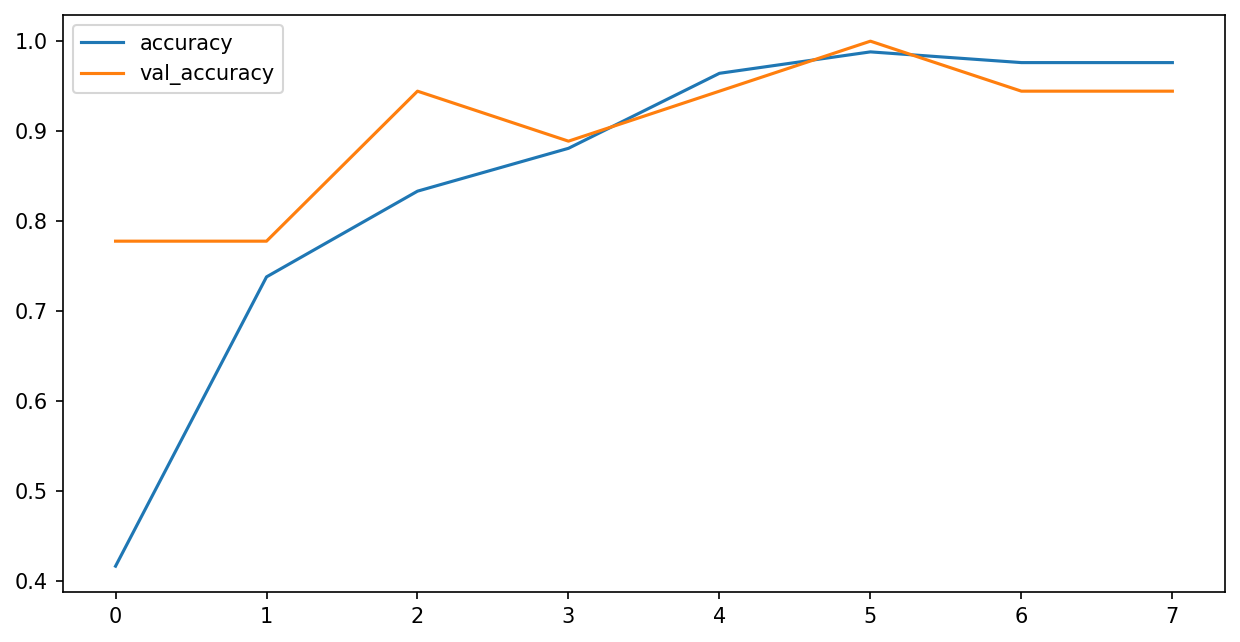
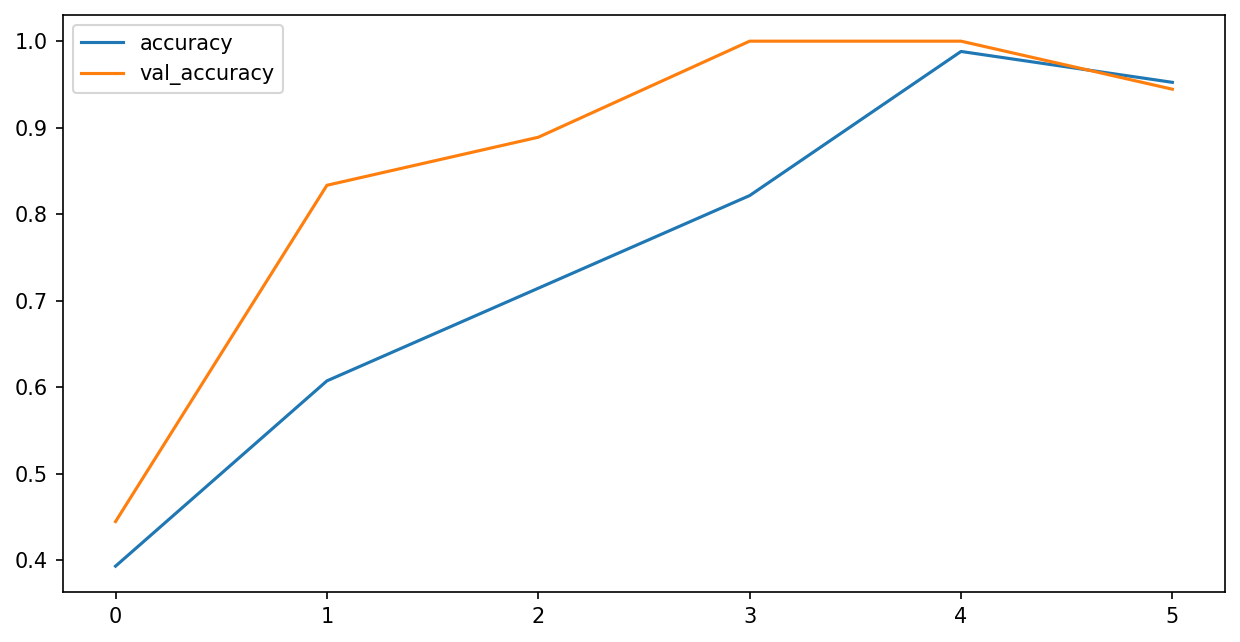
quinta_split(data_augmentation)

diff --git a/cnn_data_augmentation.py b/cnn_data_augmentation.py
@@ -31,11 +31,49 @@ def duration_care(y):
 
     duration_difference = (sample_rate * 2) - y.shape[0]
     if (duration_difference > 0):
+        print("Padding do audio com zeros para 2 seconds.")
         y = np.pad(y, (0, duration_difference), mode='constant')
     if (duration_difference < 0):
+        print("Cortando o audio para 2 seconds.")
         y = y[:sample_rate*2]
 
     return y
+
+
+def data_augmentation(name_step):
+    data_augmented = []
+    vector = []
+    for classe, valor in classes.items():
+        path = "./Dataset/" + name_step + "/" + classe + "/"
+        for audio in os.listdir(path):
+            if audio.endswith(".wav"):
+                # carregamento do áudio
+                y, sr = lb.load(os.path.join(path, audio), sr=sample_rate)
+
+                # modificação do áudio para o data augmentation
+                data_augmented.append((lb.effects.pitch_shift(
+                    y, sr=sr, n_steps=np.random.uniform(-2, 2)), valor))
+
+                y = duration_care(y)
+
+    for i, j in data_augmented:
+        melspec = lb.feature.melspectrogram(
+            y=i,
+            sr=sr,
+            n_mels=n_mels,
+            fmax=fmax,
+            n_fft=n_fft,
+            hop_length=hop_length,
+            win_length=win_length,
+        )
+
+        # conversão para escala logarítmica
+        melspec_log = lb.power_to_db(melspec, ref=np.max)
+
+        # retorno da tupla (espectrograma de Mel, valor da classe)
+        vector.append((melspec_log, j))
+
+    return vector
 
 
 def melspectrogram(name_step, vector):
@@ -72,8 +110,30 @@ def melspectrogram(name_step, vector):
 
 
 train = melspectrogram("train", train)
+print(len(train))
+
+data_aug = data_augmentation("train")
+print(len(data_aug))
+
+print(np.array_equal(
+    train[0][0],
+    data_aug[0][0]
+))
+
+print(
+    np.array_equal(
+        train[0][1],
+        data_aug[0][1]
+    ))
+
+train.extend(data_aug)
+
+print(len(train))
+
+
 test = melspectrogram("test", test)
 validation = melspectrogram("validation", validation)
+
 
 def prepare_to_dataset(melspc_vector):
     x = []
@@ -88,6 +148,7 @@ def prepare_to_dataset(melspc_vector):
 
 
 train_x, train_labels = prepare_to_dataset(train)
+print(len(train_x), len(train_labels))
 validation_x, validation_labels = prepare_to_dataset(validation)
 test_x, test_labels = prepare_to_dataset(test)
 
@@ -160,14 +221,16 @@ plt.figure(figsize=(10, 5))
 plt.plot(history.epoch, metrics["loss"])
 plt.plot(history.epoch, metrics["val_loss"])
 plt.legend(["loss", "val_loss"])
-plt.savefig("training_loss.png", dpi=150, bbox_inches="tight")
+plt.savefig("training_loss_data_augmentation.png",
+            dpi=150, bbox_inches="tight")
 plt.close()
 
 plt.figure(figsize=(10, 5))
 plt.plot(history.epoch, metrics["accuracy"])
 plt.plot(history.epoch, metrics["val_accuracy"])
 plt.legend(["accuracy", "val_accuracy"])
-plt.savefig("training_accuracy.png", dpi=150, bbox_inches="tight")
+plt.savefig("training_accuracy_data_augmentation.png",
+            dpi=150, bbox_inches="tight")
 plt.close()
 
 test_audio = []
@@ -194,7 +257,8 @@ sns.heatmap(
 plt.xlabel("Prediction")
 plt.ylabel("Label")
 plt.title(f"Confusion Matrix\n Test Accuracy: {test_acc:.0%}")
-plt.savefig("confusion_matrix.png", dpi=150, bbox_inches="tight")
+plt.savefig("confusion_matrix_data_augmentation.png",
+            dpi=150, bbox_inches="tight")
 plt.show()
 plt.close()
 

diff --git a/estratificacao.py b/estratificacao.py
@@ -10,16 +10,20 @@ dir_train = './Dataset/train'
 dir_validation = './Dataset/validation'
 dir_test = './Dataset/test'
 
+
 def list_wavs(path):
     return [f for f in os.listdir(path) if f.endswith('.wav')]
 
+
 def count_wavs(path):
     return len(list_wavs(path))
+
 
 def delete_files(folder):
     if os.path.exists(folder):
         shutil.rmtree(folder)
     os.makedirs(folder)
+
 
 def verification(classe):
     if count_wavs(os.path.join(dir_train, classe)) == 0:
@@ -30,11 +34,12 @@ def verification(classe):
         return False
     return True
 
+
 def division_datasets(arquivos, classe):
     train_files, temp = sk.model_selection.train_test_split(
         arquivos, test_size=0.3, random_state=42
     )
-    
+
     val_files, test_files = sk.model_selection.train_test_split(
         temp, test_size=0.5, random_state=42
     )
@@ -57,6 +62,7 @@ def division_datasets(arquivos, classe):
             os.path.join(dir_test, classe)
         )
 
+
 def estratificacao(arquivos, classe):
     if not verification(classe):
 
@@ -70,13 +76,15 @@ def estratificacao(arquivos, classe):
 
         print(" Concluído:")
         print(f"Train: {count_wavs(os.path.join(dir_train, classe))}")
-        print(f"Validation: {count_wavs(os.path.join(dir_validation, classe))}")
+        print(
+            f"Validation: {count_wavs(os.path.join(dir_validation, classe))}")
         print(f"Test: {count_wavs(os.path.join(dir_test, classe))}")
 
     else:
         print(f"\n Estratificação já realizada para {classe}")
         print(f"Train: {count_wavs(os.path.join(dir_train, classe))}")
-        print(f"Validation: {count_wavs(os.path.join(dir_validation, classe))}")
+        print(
+            f"Validation: {count_wavs(os.path.join(dir_validation, classe))}")
         print(f"Test: {count_wavs(os.path.join(dir_test, classe))}")
 
 

diff --git a/info_dataset.py b/info_dataset.py
@@ -5,6 +5,7 @@ import os
 
 dataset_dir = './Dataset/archive/'
 
+
 def audio_info(path):
     taxa_amostragem = []
     duracao = []
@@ -17,8 +18,9 @@ def audio_info(path):
                 duracao.append(lb.get_duration(y=y, sr=sr))
     return taxa_amostragem, duracao
 
+
 taxa_amostragem, duracao = audio_info(dataset_dir)
-        
+
 print("Média duração: ", np.mean(duracao))
 print("Mínima duração: ", np.min(duracao))
 print("Máxima duração: ", np.max(duracao))
@@ -31,4 +33,3 @@ print("Mínima taxa de amostragem: ", np.min(taxa_amostragem))
 print("Máxima taxa de amostragem: ", np.max(taxa_amostragem))
 print("Quantidade de arquivos: ", len(taxa_amostragem))
 print("\nTaxas de amostragem: \n", taxa_amostragem)
-        
